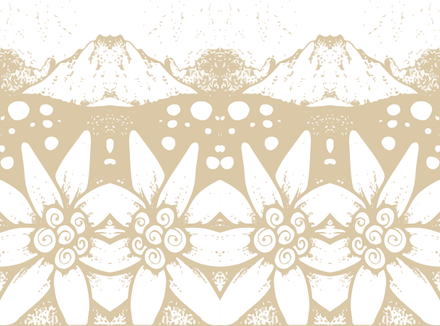
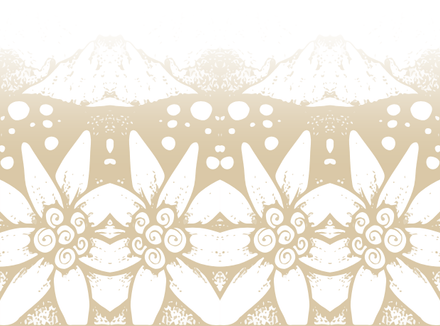
Filigrana in X: sfumatura in alto e proporzioni della carta senza taglio

diff --git a/battn-score/src/screens/ScoreScreen.tsx b/battn-score/src/screens/ScoreScreen.tsx
@@ -21,6 +21,7 @@ import { TeamId, xMarkFor } from '../types';
 export const setupBgSource = require('../../assets/sappadine/card-rastrelli.png');
 /** Fondo delle Sappadine (monti + stelle alpine) per la coppia in X. */
 const xScenerySource = require('../../assets/sappadine/x-scenery.png');
+const X_SCENERY_RATIO = 440 / 326;
 
 export function ScoreScreen({ onHome }: { onHome: () => void }) {
   const insets = useSafeAreaInsets();
@@ -483,13 +484,22 @@ function TeamScore({
   onPlus: () => void;
   onMinus: () => void;
 }) {
+  const [card, setCard] = useState({ width: 0, height: 0 });
+  // Misure esplicite: la filigrana tiene le proporzioni della carta e resta
+  // attaccata in basso. Il box la taglia in alto, dove è già sfumata.
+  const sceneryHeight = Math.round(card.width / X_SCENERY_RATIO);
+  const sceneryBoxHeight = Math.min(sceneryHeight, Math.round(card.height * 0.72));
+
   return (
-    <View style={[styles.teamCard, { borderColor: accent }]}>
-      {marked && (
-        <View style={styles.xSceneryBox} pointerEvents="none">
+    <View
+      style={[styles.teamCard, { borderColor: accent }]}
+      onLayout={(e) => setCard(e.nativeEvent.layout)}
+    >
+      {marked && card.width > 0 && (
+        <View style={[styles.xSceneryBox, { height: sceneryBoxHeight }]} pointerEvents="none">
           <Image
             source={xScenerySource}
-            style={styles.xSceneryImage}
+            style={[styles.xSceneryImage, { width: card.width, height: sceneryHeight }]}
             resizeMode="cover"
             fadeDuration={0}
             accessibilityElementsHidden
@@ -617,17 +627,15 @@ const styles = StyleSheet.create({
     borderWidth: 1.5,
     overflow: 'hidden',
   },
-  // Il box fissa la larghezza: l'Image da sola terrebbe la misura naturale.
   xSceneryBox: {
     position: 'absolute',
     left: 0,
     right: 0,
     bottom: 0,
-    height: '55%',
     opacity: 0.55,
     overflow: 'hidden',
   },
-  xSceneryImage: { width: '100%', height: '100%' },
+  xSceneryImage: { position: 'absolute', left: 0, bottom: 0 },
   teamName: {
     fontFamily: fonts.bodyMedium,
     color: colors.muted,
